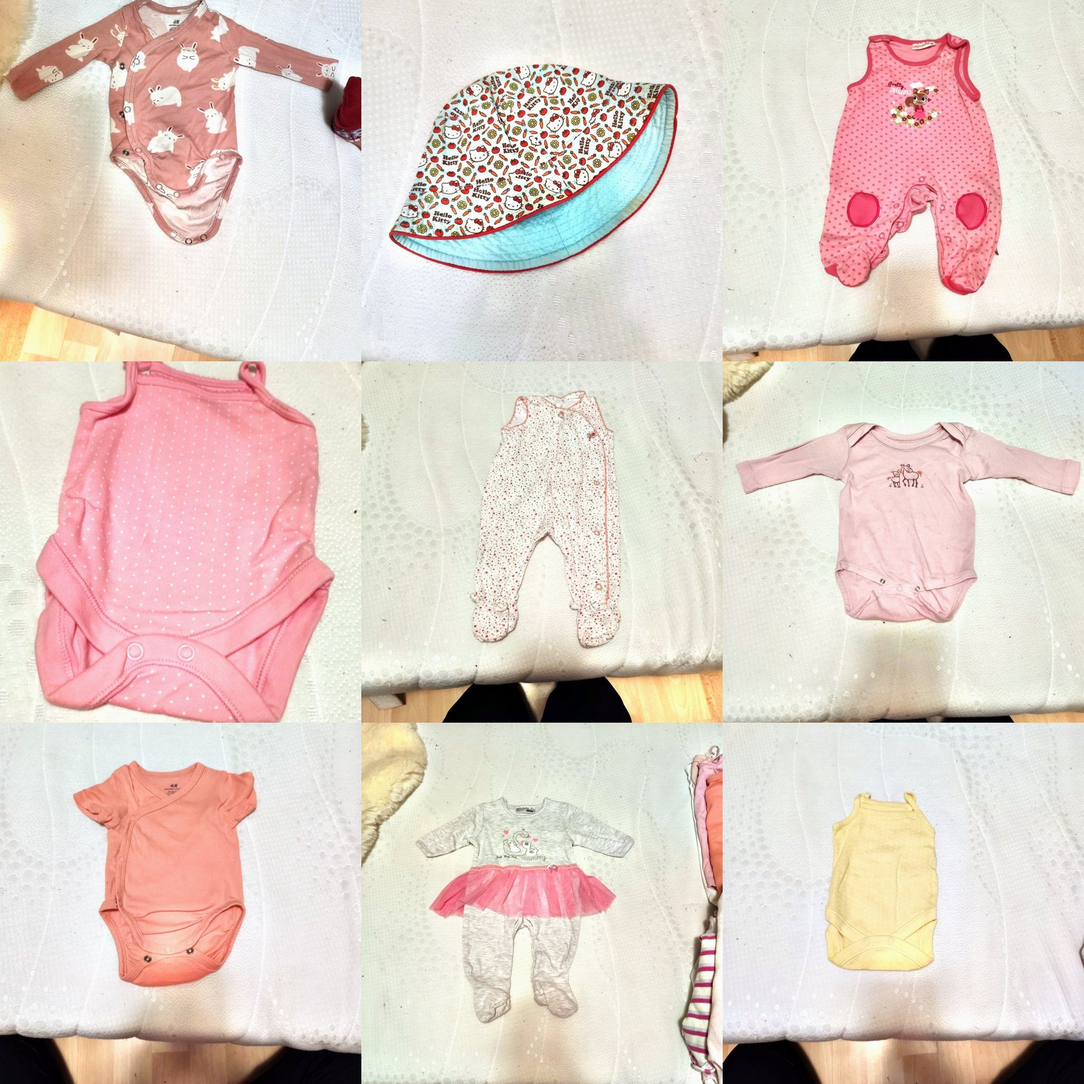
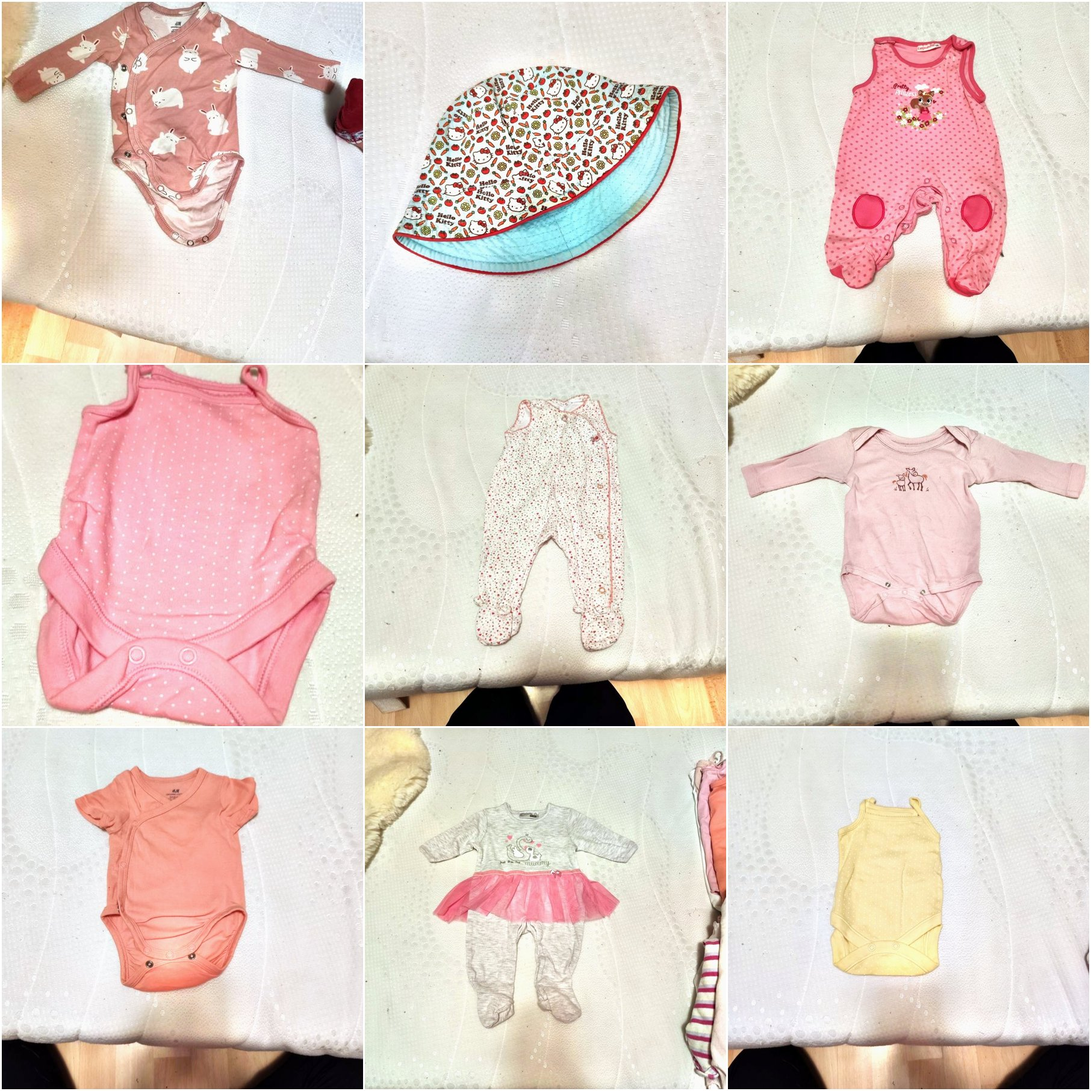
Kollagen: dünne Trennlinien (3 px)
Claude-Session: https://claude.ai/code/session_01JEXW45GuLk9Rvbj3Lw3mTj

diff --git a/babyklamotten/kollage.py b/babyklamotten/kollage.py
@@ -16,7 +16,7 @@ from PIL import Image, ImageOps
 
 BASIS = Path(__file__).parent
 KACHEL = 600
-ABSTAND = 0
+ABSTAND = 3
 PRO_KOLLAGE = 9
 
 
